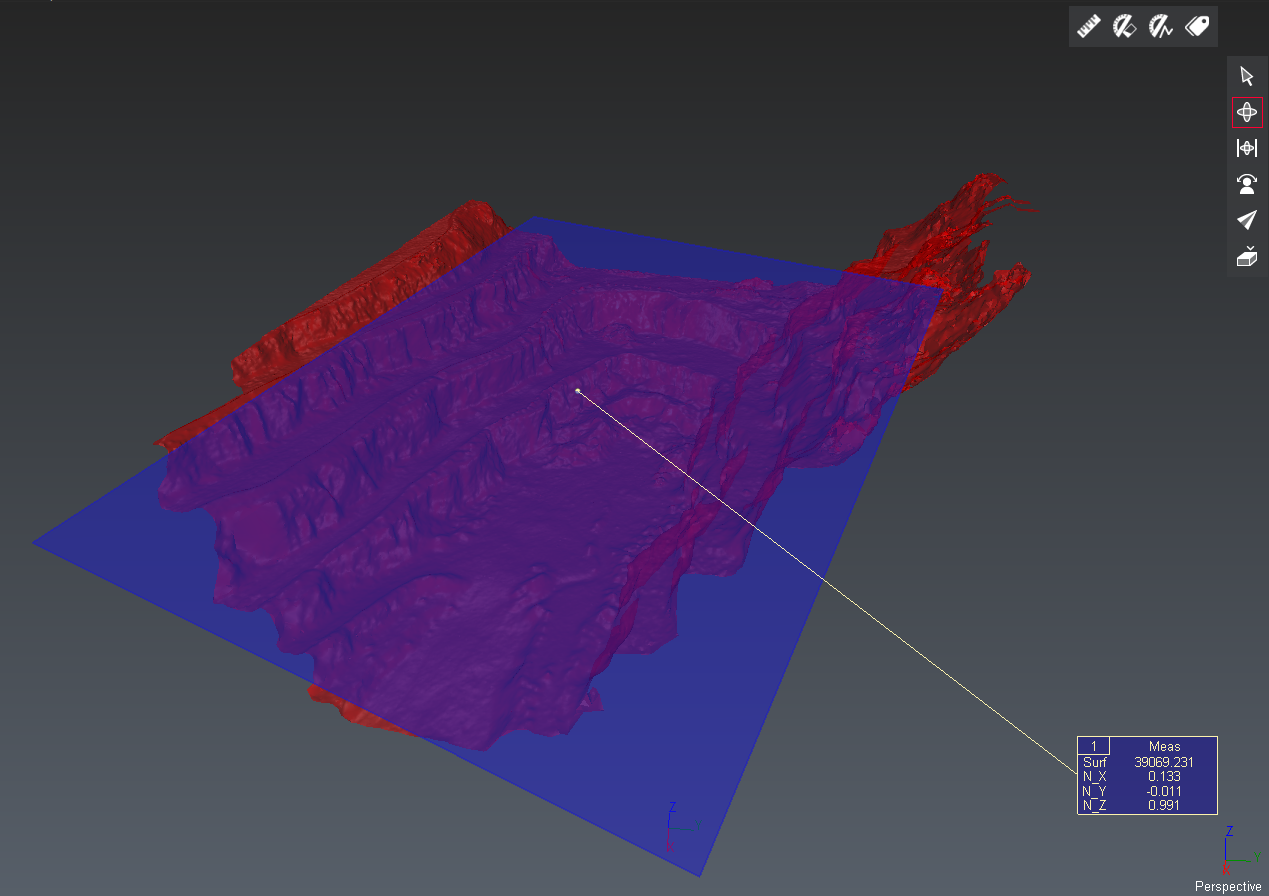
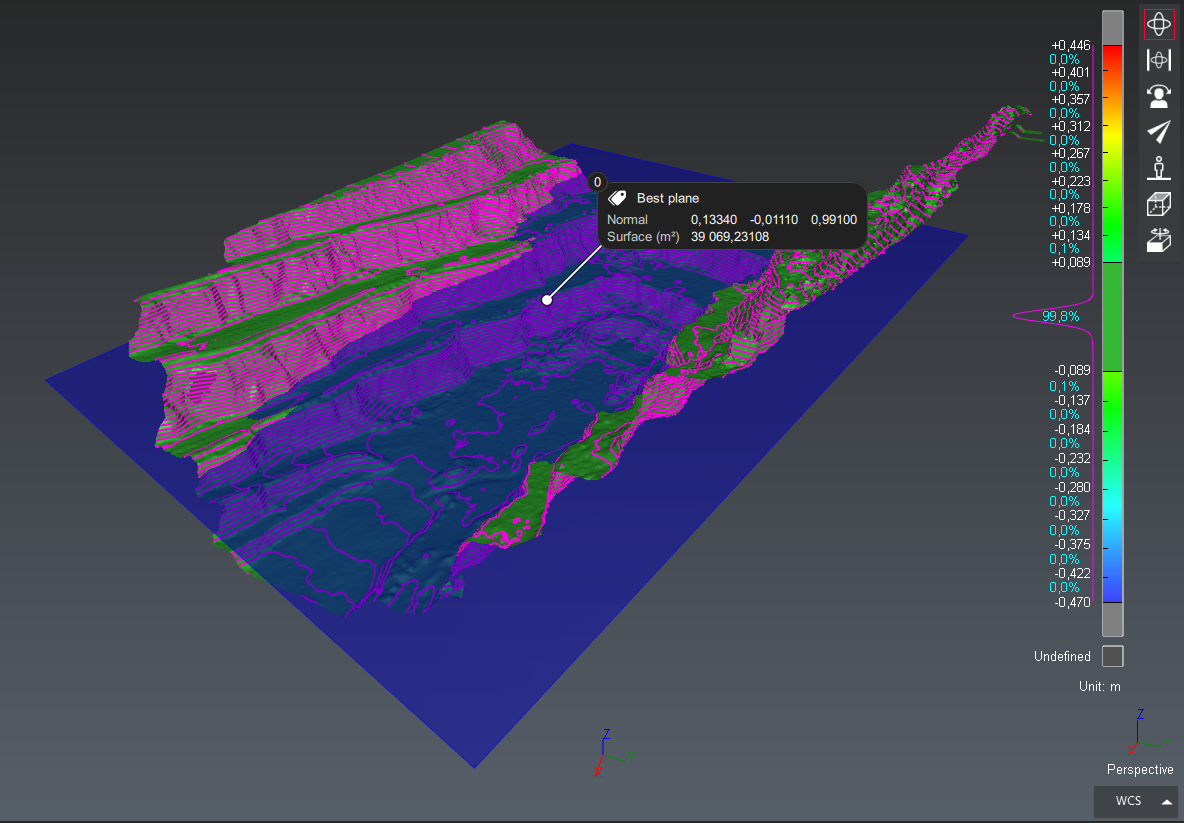
MyFirstScript: Update code by replacing SLabel usages with SMeasure

diff --git a/MyFirstScript/MyFirstScript.js b/MyFirstScript/MyFirstScript.js
@@ -67,7 +67,7 @@ function createsimpleMesh(iCloud) {
     var newMesh = SPoly.New(); // creation of new object 
     var deviationError = 0; // deviation error. 0 means that deviation error is not used
     var miniaverageDist = 0.05; // average distance between points in current distance unit
-    var meshHoles = SPoly.ALL_CLOSED; // all the detected holes are closed in this case
+    var meshHoles = SPoly.HoleOptionEnum.INSIDE_CLOSED; // all the detected holes are closed in this case
     var sizeHoles = miniaverageDist * 3; // size of the holes in current distance unit
 
     var iResult = SPoly.Direct3DMesh(iCloud, deviationError, miniaverageDist, meshHoles, sizeHoles); // basic 3D MESH function
@@ -194,12 +194,43 @@ function bestPlane(iCloud) {
         var planeNormal = myPlane.GetNormal(); // normal of the best plane
         var planePoint = myPlane.GetCenter(); // center of the best plane
 
-        var iLabel = SLabel.New(4, 1); // creation of a label
-        iLabel.SetColType([SLabel.Measure]); // column that contains measures
-        iLabel.SetLineType([SLabel.Surface, SLabel.NormalX, SLabel.NormalY, SLabel.NormalZ,]); // lines are surface and directions of the normal vector
-        iLabel.SetCol(0, [planeSurface, planeNormal.GetX(), planeNormal.GetY(), planeNormal.GetZ()]);
-        iLabel.AttachToPoint(planePoint); // label is attached to the center of the best plane
-        iLabel.AddToDoc();
+        // Create a measure attached to the center of the best plane
+        let measure = SMeasure.New("Best plane", planePoint, 0);
+
+        // Add a first row for the plane normal
+        measure.AddRow({
+            "key": "planeNormal",
+            "name": "Normal",
+            "values":[
+                {
+                    "key": "normal_X",
+                    "value": planeNormal.GetX()
+                },
+                {
+                    "key": "normal_Y",
+                    "value": planeNormal.GetY()
+                },
+                {
+                    "key": "normal_Z",
+                    "value": planeNormal.GetZ()
+                },
+            ]
+        });
+
+        // Add a second row for the surface with unit support
+        measure.AddRow({
+            "key": "surface",
+            "name": "Surface",
+            "unit": "m²",
+            "values":[
+                {
+                    "key": "surfaceValue",
+                    "value": planeSurface
+                }
+            ]
+        });
+
+        measure.AddToDoc();
 
         return myPlane;
     }
@@ -237,7 +268,7 @@ function colorandexportinObj(iMesh, iPath) {
 // EXECUTION OF THE FULL SCRIPT
 
 // Step 1: open an existing 3DR file
-var myfileName = GetOpenFileName("Select the file to open", "3DR files (*.3dr)", "C://"); // Define the path and the name of your file
+var myfileName = GetOpenFileName("Select the file to open", "3DR files (*.3dr)", CurrentScriptPath()); // Define the path and the name of your file
 if (myfileName.length == 0) {
     ErrorMessage("Operation canceled");
 }
@@ -262,7 +293,7 @@ var myInspection = basicInspection(myMesh, myCloud);
 var myPlane = bestPlane(myCloud);
 
 // Step 8:
-var exportPath = GetOpenFolder("Select folder to save the mesh to OBJ", "C:/"); // define the path of the folder to store the saved OBJ file
+var exportPath = GetOpenFolder("Select folder to save the mesh to OBJ", CurrentScriptPath()); // define the path of the folder to store the saved OBJ file
 if (exportPath.length == 0) {
     ErrorMessage("Operation canceled");
 }
